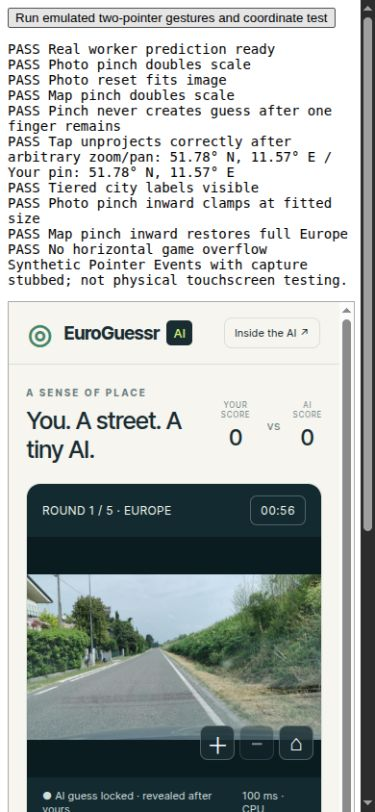
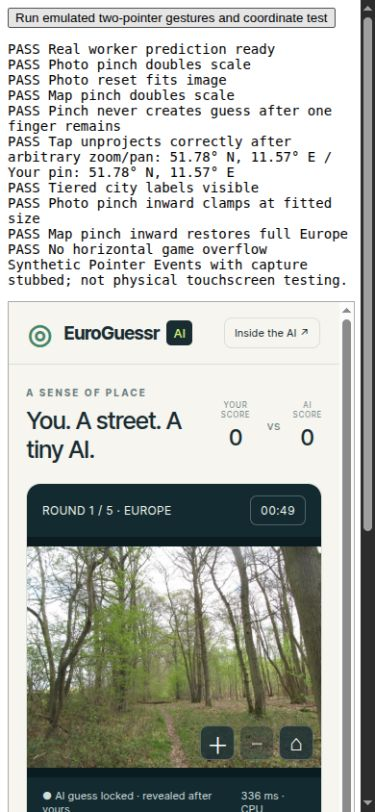
Select deployed student checkpoints on validation and verify continuation

Changed region(s): [[0.0587, 0.6158, 0.88, 1.0]]

diff --git a/projects/euroguessr/training/report_experiment.py b/projects/euroguessr/training/report_experiment.py
@@ -27,7 +27,7 @@ def main():
         for epoch in h:stages[epoch['stage']].append(epoch)
         stage_text='; '.join(f"{stage}: {len(v)} epochs, {max(e['elapsed_seconds'] for e in v):.1f} s" for stage,v in stages.items())
         audit=m['distillation']['validation_representation'];audit_text='not measured' if not audit else f"{audit['mean_cosine']:.6f} on {audit['n']} held-out validation examples"
-        lines += [f"- **{name}**: {stage_text}; best head-validation epoch {m['best_epoch']}; normalized projected representation cosine to the full-precision teacher: {audit_text}. Supervised A's projection is untrained and its cosine is only a control."]
-    lines+=['','The final spatial residual/SE block and output convolution were fine-tuned with fixed batch-normalization statistics. The distilled objective was 0.5 geographic CE + 0.2 temperature-scaled KL + 0.3 cosine loss, with teacher terms masked for uncached images. Both native and projected retrieval spaces, geographic head and offline location-gallery retrieval were evaluated on validation. Full candidate tables are in each `metrics.json`.','',f"The optional GeoCLIP download contains {big.get('download_bytes',big['onnx_bytes']+big['reference_bytes']):,} bytes plus small coordinate metadata. Precision: **{big['precision']}**. Constant dequantization uses FP32 matrix multiplication and consumes more browser memory than the stored 8-bit download. Five weight shards are under 64 MiB each. The browser contains no CLIP text tower or location encoder: it searches {10857:,} precomputed European location embeddings.",'','## Browser and game verification','',f"- Forty player photos total {sum(i['bytes'] for i in images['images']):,} bytes. Highest available source long edge is 910 px; exports preserve source size and never upscale. The archive cannot supply genuine 1600 px images.",'- Pointer Events provide photo zoom 1–4× and map zoom 1–8×, midpoint-anchored pinch/pan, clamping, cancellation and no pinch-created guess. The next photograph alone is preloaded. Natural Earth supplies 100 tiered city labels with collision suppression.', '- Chrome computer-agent evidence and actual five-round downloads are saved in `docs/` and summarized in `VALIDATION.md`. Responsive testing at 390×844 is desktop emulation, not a physical-phone benchmark. No human research matches were collected.','', '## Failures and limitations','', '- Signed INT8 source initially failed native ONNX Runtime on `ConvInteger`. The unsigned dynamic-activation variant ran but exact-input Chrome/native audits found embedding cosine near 0.99 and geographic differences up to 320 km. A FP32 patch-only repair worsened differences to 1,564 km. Both were rejected. The selected 8-bit stored-weight / FP32 arithmetic variant passed actual Chrome/native checks: maximum embedding error below 5.1e-7, coordinate difference below 0.005 km, and bit-exact JPEG preprocessing for the audit photo. These are two backend audit inputs, not an accuracy benchmark.', '- Plain nginx served `.mjs` with the wrong MIME type and initially prevented the compiled game from initializing WASM. The committed Docker preview config fixes `.mjs` and `.wasm` MIME types; GitHub Pages already serves the vendor module as JavaScript.', '- Tiny distillation is capacity-limited and the student/reference pack can still make large geographic errors. GeoCLIP needs a substantial explicit download and browser memory; phone performance is unmeasured.', '- The public 40-image pack was inspected previously. It is suitable for gameplay and UI checks, not fresh performance claims. Future model improvements require a new test cohort rather than retuning against this one.','', '## Checkpoints, reproduction and reversal','', '- `checkpoints/current/` and Git tag `euroguessr-v1-baseline-2026-10-05` preserve V1.', '- `checkpoints/geoclip-v2/` preserves both students’ best and last weights, optimizer and RNG state, grid, histories, exact image hashes, pinned dataset revision and teacher/cache archives. Bundle checksums verify continuation inputs.', '- `checkpoints/geoclip-direct/` preserves direct-model validation/test and quantization comparisons. Public external weight shards plus hashes preserve the deployed direct predictor.', '- Exact Docker commands for teacher generation/resume, student training/resume, verified restore, export, publication and revert are in `RESEARCH_V2.md`. `training/geoclip_overnight.sh` reproduces the main research stages; final test and promotion are separate explicit steps.', '- Automated evidence includes eight Node checks, five distillation contract tests, deterministic optimizer/RNG resume, expired-deadline export, wider-tail transition/parity, six exact CLIP preprocessing shapes, leakage/runtime fixtures, asset synchronization and full Docker Jekyll compilation. Final run results and browser scope are recorded in `VALIDATION.md`.','']
+        lines += [f"- **{name}**: {stage_text}; deployed checkpoint {m.get('selected_checkpoint','best.pt')} at epoch {m['best_epoch']}; normalized projected representation cosine to the full-precision teacher: {audit_text}. Supervised A's projection is untrained and its cosine is only a control."]
+    lines+=['','The final spatial residual/SE block and output convolution were fine-tuned with fixed batch-normalization statistics. The distilled objective was 0.5 geographic CE + 0.2 temperature-scaled KL + 0.3 cosine loss, with teacher terms masked for uncached images. Both native and projected retrieval spaces, geographic head and offline location-gallery retrieval were evaluated on validation. Full candidate tables are in each `metrics.json`.','',f"The optional GeoCLIP download contains {big.get('download_bytes',big['onnx_bytes']+big['reference_bytes']):,} bytes plus small coordinate metadata. Precision: **{big['precision']}**. Constant dequantization uses FP32 matrix multiplication and consumes more browser memory than the stored 8-bit download. Five weight shards are at most 64 MiB each. The browser contains no CLIP text tower or location encoder: it searches {10857:,} precomputed European location embeddings.",'','## Browser and game verification','',f"- Forty player photos total {sum(i['bytes'] for i in images['images']):,} bytes. Highest available source long edge is 910 px; exports preserve source size and never upscale. The archive cannot supply genuine 1600 px images.",'- Pointer Events provide photo zoom 1–4× and map zoom 1–8×, midpoint-anchored pinch/pan, clamping, cancellation and no pinch-created guess. The next photograph alone is preloaded. Natural Earth supplies 100 tiered city labels with collision suppression.', '- Chrome computer-agent evidence and actual five-round downloads are saved in `docs/` and summarized in `VALIDATION.md`. Responsive testing at 390×844 is desktop emulation, not a physical-phone benchmark. No human research matches were collected.','', '## Failures and limitations','', '- Signed INT8 source initially failed native ONNX Runtime on `ConvInteger`. The unsigned dynamic-activation variant ran but exact-input Chrome/native audits found embedding cosine near 0.99 and geographic differences up to 320 km. A FP32 patch-only repair worsened differences to 1,564 km. Both were rejected. The selected 8-bit stored-weight / FP32 arithmetic variant passed actual Chrome/native checks: maximum embedding error below 5.1e-7, coordinate difference below 0.005 km, and bit-exact JPEG preprocessing for the audit photo. These are two backend audit inputs, not an accuracy benchmark.', '- Plain nginx served `.mjs` with the wrong MIME type and initially prevented the compiled game from initializing WASM. The committed Docker preview config fixes `.mjs` and `.wasm` MIME types; GitHub Pages already serves the vendor module as JavaScript.', '- Tiny distillation is capacity-limited and the student/reference pack can still make large geographic errors. GeoCLIP needs a substantial explicit download and browser memory; phone performance is unmeasured.', '- The public 40-image pack was inspected previously. It is suitable for gameplay and UI checks, not fresh performance claims. Future model improvements require a new test cohort rather than retuning against this one.','', '## Checkpoints, reproduction and reversal','', '- `checkpoints/current/` and Git tag `euroguessr-v1-baseline-2026-10-05` preserve V1.', '- `checkpoints/geoclip-v2/` preserves both students’ best and last weights, optimizer and RNG state, grid, histories, exact image hashes, pinned dataset revision and teacher/cache archives. Bundle checksums verify continuation inputs.', '- `checkpoints/geoclip-direct/` preserves direct-model validation/test and quantization comparisons. Public external weight shards plus hashes preserve the deployed direct predictor.', '- Exact Docker commands for teacher generation/resume, student training/resume, verified restore, export, publication and revert are in `RESEARCH_V2.md`. `training/geoclip_overnight.sh` reproduces the main research stages; final test and promotion are separate explicit steps.', '- Automated evidence includes eight Node checks, five distillation contract tests, numerically reproducible optimizer/model resume (1e-7 tolerance) and exact RNG restoration, expired-deadline export, wider-tail transition/parity, six exact CLIP preprocessing shapes, leakage/runtime fixtures, asset synchronization and full Docker Jekyll compilation. Final run results and browser scope are recorded in `VALIDATION.md`.','']
     (run/'REPORT.md').write_text('\n'.join(lines));print(run/'REPORT.md')
 if __name__=='__main__':main()

diff --git a/projects/euroguessr/training/evaluate_student.py b/projects/euroguessr/training/evaluate_student.py
@@ -19,9 +19,10 @@ def retrieval_candidates(query,refs,gps):
             w=np.exp((values[:,:k]-values[:,:1])*temperature);w/=w.sum(1,keepdims=True)
             yield k,temperature,(gps[order[:,:k]]*w[:,:,None]).sum(1)
 
-def finalize(run_dir,prefix=None,audit_teacher=None):
+def finalize(run_dir,prefix=None,audit_teacher=None,checkpoint='best',export_dir=None):
     from student_train import Student,cached_prefix,all_features
-    out=Path(run_dir);state=torch.load(out/'best.pt',weights_only=False);torch.set_num_threads(2)
+    out=Path(run_dir);destination=Path(export_dir) if export_dir else out;destination.mkdir(parents=True,exist_ok=True)
+    state=torch.load(out/f'{checkpoint}.pt',weights_only=False);torch.set_num_threads(2)
     rows=json.loads((out/'manifest.json').read_text());gps=np.array([[float(r['latitude']),float(r['longitude'])] for r in rows])
     tr=np.array([i for i,r in enumerate(rows) if r['split']=='train']);va=np.array([i for i,r in enumerate(rows) if r['split']=='val'])
     model=Student(len(state['centers']),state['config'].get('tail_blocks',1));model.load_state_dict(state['model']);model.eval()
@@ -57,7 +58,7 @@ def finalize(run_dir,prefix=None,audit_teacher=None):
         _,audit=load_cache(audit_teacher,rows,centers,role='val')
         cos=[float(projected[i]@audit[r['id']][0]) for i,r in enumerate(rows) if r['id'] in audit]
         cosine={'n':len(cos),'mean_cosine':float(np.mean(cos))} if cos else None
-    models=out/'models';models.mkdir(exist_ok=True)
+    models=destination/'models';models.mkdir(exist_ok=True)
     torch.onnx.export(model,torch.zeros(1,3,224,224),models/'model.onnx',input_names=['image'],output_names=['embedding','logits','projection'],opset_version=17)
     import onnxruntime as ort
     opts=ort.SessionOptions();opts.intra_op_num_threads=2;opts.inter_op_num_threads=1
@@ -82,9 +83,10 @@ def finalize(run_dir,prefix=None,audit_teacher=None):
     atomic_json(reference_meta,models/'references.json')
     model_sha=hashlib.sha256((models/'model.onnx').read_bytes()).hexdigest()
     metadata={'model_sha256':model_sha,'version':f'europe-v2-{out.name}-{state["epoch"]}-{model_sha[:12]}','architecture':'Tiny MobileNetV3-Small student distilled from GeoCLIP' if targets else 'GPS-supervised MobileNetV3-Small baseline','parameters':sum(p.numel() for p in model.parameters()),'method':winner,'embedding_output':selected['embedding_output'],'retrieval_temperature':selected.get('retrieval_temperature',20),'centers':centers.tolist(),'manifest_sha256':state['manifest_sha256'],'splits':{'train':len(tr),'val':len(va),'test':sum(r.get('cohort')=='fresh' for r in rows),'minimum_train_holdout_distance_km':25,'validation_block_degrees':3},'candidates':candidates,'onnx_max_absolute_error':parity,'onnx_bytes':(models/'model.onnx').stat().st_size,'reference_bytes':(models/'references.f32').stat().st_size,'native_cpu_latency_ms':{'median':float(np.median(times)),'p95':float(np.percentile(times,95)),'threads':2,'scope':'encoder + two heads; excludes image decode/retrieval'},'distillation':{'enabled':bool(targets),'teacher_images':len(targets),'teacher_cache_sha256':state['teacher_cache_sha256'],'weights':state['config'],'validation_representation':cosine},'precision':'FP32','human_benchmark':'Not measured','input':{'shape':[1,3,224,224],'resize':'stretch, half-pixel bilinear, no antialiasing','mean':[.485,.456,.406],'std':[.229,.224,.225]},'best_epoch':state['epoch'],'test_status':'not evaluated'}
-    atomic_json(metadata,models/'metadata.json');atomic_json(metadata,out/'metrics.json')
-    np.savez(out/'evaluation-features.npz',native=native,projection=projected,logits=logits)
-    atomic_json({'winner':winner,'validation':selected['val'],'test_status':'not evaluated'},out/'selection.json')
+    metadata['selected_checkpoint']=checkpoint+'.pt'
+    atomic_json(metadata,models/'metadata.json');atomic_json(metadata,destination/'metrics.json')
+    np.savez(destination/'evaluation-features.npz',native=native,projection=projected,logits=logits)
+    atomic_json({'winner':winner,'checkpoint':checkpoint+'.pt','validation':selected['val'],'test_status':'not evaluated'},destination/'selection.json')
     print(json.dumps({'winner':winner,'validation':selected['val'],'onnx_bytes':metadata['onnx_bytes'],'cosine':cosine}),flush=True)
     return metadata
 
@@ -116,7 +118,7 @@ def final_test(out):
     return report
 
 def main():
-    p=argparse.ArgumentParser();p.add_argument('--run-dir',type=Path,required=True);p.add_argument('--test',action='store_true');p.add_argument('--audit-teacher',type=Path);args=p.parse_args();torch.set_num_threads(2)
+    p=argparse.ArgumentParser();p.add_argument('--run-dir',type=Path,required=True);p.add_argument('--test',action='store_true');p.add_argument('--audit-teacher',type=Path);p.add_argument('--checkpoint',choices=['best','last'],default='best');p.add_argument('--export-dir',type=Path);args=p.parse_args();torch.set_num_threads(2)
     if args.test:final_test(args.run_dir)
-    else:finalize(args.run_dir,audit_teacher=args.audit_teacher)
+    else:finalize(args.run_dir,audit_teacher=args.audit_teacher,checkpoint=args.checkpoint,export_dir=args.export_dir)
 if __name__=='__main__':main()

diff --git a/projects/euroguessr/tests/training_integration.py b/projects/euroguessr/tests/training_integration.py
@@ -1,4 +1,4 @@
-"""Real CPU training verifies exact resume and past-deadline ONNX finalization."""
+"""Real CPU training verifies numerical resume, exact RNG and deadline export."""
 import sys,json,subprocess,shutil
 from pathlib import Path
 import torch
@@ -20,8 +20,19 @@ def main():
     run('resumed','--epochs','1');run('resumed','--epochs','1','--resume')
     full=torch.load(out/'full/last.pt',weights_only=False);resumed=torch.load(out/'resumed/last.pt',weights_only=False)
     assert full['epoch']==resumed['epoch']==1
-    assert all(torch.equal(v,resumed['model'][k]) for k,v in full['model'].items()),'Resume model differs'
+    model_error=max(float((v-resumed['model'][k]).abs().max()) for k,v in full['model'].items())
+    assert model_error<1e-7,'Resume model differs beyond CPU rounding tolerance'
     assert torch.equal(full['torch_rng'],resumed['torch_rng']),'Resume RNG differs'
+    assert full['python_rng']==resumed['python_rng'] and np.array_equal(full['numpy_rng'][1],resumed['numpy_rng'][1]),'Resume Python/NumPy RNG differs'
+    assert full['optimizer']['param_groups']==resumed['optimizer']['param_groups'],'Resume optimizer settings differ'
+    optimizer_error=0.
+    for key,state in full['optimizer']['state'].items():
+        for name,value in state.items():
+            other=resumed['optimizer']['state'][key][name]
+            if torch.is_tensor(value):optimizer_error=max(optimizer_error,float((value-other).abs().max()))
+            else:assert value==other
+    assert optimizer_error<1e-7,'Resume optimizer differs beyond CPU rounding tolerance'
+    assert all(abs(a['loss']-b['loss'])<1e-7 and a['val']==b['val'] for a,b in zip(full['history'],resumed['history'])),'Resume training trajectory differs'
     run('deadline','--epochs','1','--stop-at','1970-01-01T00:00:00+00:00','--export')
     completion=json.loads((out/'deadline/completion.json').read_text());assert completion['reason']=='deadline'
     assert (out/'deadline/models/model.onnx').exists(),'Deadline skipped finalization'
@@ -44,5 +55,13 @@ def main():
     refs=json.loads((out/'spatial/models/references.json').read_text());matrix=np.fromfile(out/'spatial/models/references.f32',dtype='<f4').reshape(refs['count'],refs['dimensions'])
     with torch.inference_mode():native=model.encoder(tensor(DATA/'images'/f"{refs['ids'][0]}.jpg").unsqueeze(0));native=torch.nn.functional.normalize(native,dim=1).numpy()[0]
     assert np.allclose(matrix[0],native,atol=1e-5),'Reference export used the wrong frozen-prefix scope'
-    print(json.dumps({'exact_resume':'passed','deadline_checkpoint_and_export':'passed','deadline_resume':'passed','spatial_tail_transition_and_reference_parity':'passed'}))
+    from evaluate_student import finalize
+    exported=out/'spatial/last-evaluation'
+    metadata=finalize(out/'spatial',checkpoint='last',export_dir=exported)
+    assert metadata['selected_checkpoint']=='last.pt' and metadata['best_epoch']==spatial['epoch']
+    model=Student(len(spatial['centers']),2);model.load_state_dict(spatial['model']);model.eval()
+    refs=json.loads((exported/'models/references.json').read_text());matrix=np.fromfile(exported/'models/references.f32',dtype='<f4').reshape(refs['count'],refs['dimensions'])
+    with torch.inference_mode():native=torch.nn.functional.normalize(model.encoder(tensor(DATA/'images'/f"{refs['ids'][0]}.jpg").unsqueeze(0)),dim=1).numpy()[0]
+    assert np.allclose(matrix[0],native,atol=1e-5),'Last-checkpoint comparison used the wrong prefix/model'
+    print(json.dumps({'numerical_model_and_optimizer_resume':'passed','resume_max_weight_error':model_error,'resume_max_optimizer_error':optimizer_error,'exact_rng_resume':'passed','deadline_checkpoint_and_export':'passed','deadline_resume':'passed','spatial_tail_transition_and_reference_parity':'passed','last_checkpoint_export_parity':'passed'}))
 if __name__=='__main__':main()

diff --git a/projects/euroguessr/training/select_student_checkpoint.py b/projects/euroguessr/training/select_student_checkpoint.py
@@ -1,0 +1,33 @@
+"""Select head-best versus last checkpoint by deployed validation retrieval.
+
+Training checkpoints remain intact. Both controls receive the same comparison;
+the fresh test must still be unopened. This avoids choosing a CNN solely by a
+classification head when the deployed predictor actually uses retrieval.
+"""
+import argparse,json,shutil
+from pathlib import Path
+from evaluate_student import finalize
+from fingerprint_runtime import seal
+from teacher_common import atomic_json
+
+def main():
+    p=argparse.ArgumentParser();p.add_argument('--run-dir',type=Path,required=True);p.add_argument('--audit-teacher',type=Path);args=p.parse_args();out=args.run_dir
+    if (out/'test-report.json').exists() or (out.parent/'deployment-selection.json').exists():raise ValueError('Checkpoint selection must precede the locked deployment and fresh test')
+    decision=out/'checkpoint-selection.json'
+    if decision.exists():raise ValueError('Checkpoint comparison already saved; preserve it')
+    candidates={}
+    for checkpoint in ['best','last']:
+        directory=out/f'{checkpoint}-evaluation'
+        if directory.exists():raise ValueError('Evaluation directory exists; preserve previous measurements')
+        meta=finalize(out,audit_teacher=args.audit_teacher,checkpoint=checkpoint,export_dir=directory)
+        candidates[checkpoint]={'epoch':meta['best_epoch'],'method':meta['method'],'validation':meta['candidates'][meta['method']]['val'],'model_sha256':meta['model_sha256']}
+    winner=min(candidates,key=lambda name:candidates[name]['validation']['median_km'])
+    source=out/f'{winner}-evaluation'
+    (out/'models').mkdir(exist_ok=True)
+    for name in ['metrics.json','selection.json','evaluation-features.npz']:shutil.copy2(source/name,out/name)
+    for path in (source/'models').iterdir():shutil.copy2(path,out/'models'/path.name)
+    meta=seal(out/'models');atomic_json(meta,out/'metrics.json')
+    atomic_json({'selected_checkpoint':winner+'.pt','criterion':'Minimum shared-validation median of the deployed inference method; head-best and last checkpoints compared symmetrically for A and B','candidates':candidates},decision)
+    print('Validation-selected checkpoint',winner,flush=True)
+
+if __name__=='__main__':main()

diff --git a/projects/euroguessr/training/bundle_experiment.py b/projects/euroguessr/training/bundle_experiment.py
@@ -11,8 +11,13 @@ def main():
     dest.mkdir(parents=True)
     for run in ['supervised','distilled']:
         (dest/run).mkdir()
-        for name in ['best.pt','last.pt','cells.json','history.json','completion.json','metrics.json','selection.json','test-report.json']:
+        for name in ['best.pt','last.pt','cells.json','history.json','completion.json','metrics.json','selection.json','checkpoint-selection.json','test-report.json']:
             if (source/run/name).exists():shutil.copy2(source/run/name,dest/run/name)
+        for checkpoint in ['best','last']:
+            directory=source/run/f'{checkpoint}-evaluation'
+            if directory.exists():
+                (dest/run/directory.name).mkdir()
+                for name in ['metrics.json','selection.json']:shutil.copy2(directory/name,dest/run/directory.name/name)
     for name in ['manifest.json','data-summary.json','teacher-benchmark.json','teacher-budget.json','grid-search.json','baseline-comparison.json','baseline-test.json','deployment-selection.json','baseline-holdout-isolation.json','promotion.json','leakage-check.json','game-image-report.json','REPORT.md','docker-image-id.txt']:
         if (source/name).exists():shutil.copy2(source/name,dest/name)
     rows=json.loads((source/'manifest.json').read_text())

diff --git a/projects/euroguessr/RESEARCH_V2.md b/projects/euroguessr/RESEARCH_V2.md
@@ -160,7 +160,12 @@ training/evaluate_student.py --run-dir artifacts/geoclip-overnight/distilled \
   --audit-teacher artifacts/geoclip-overnight/validation-teacher
 training/fingerprint_runtime.py --models artifacts/geoclip-overnight/distilled/models \
   --metrics-out artifacts/geoclip-overnight/distilled/metrics.json
-# Only after validation has fixed the method:
+# Compare the training head-best and last snapshots using deployed validation retrieval:
+training/select_student_checkpoint.py --run-dir artifacts/geoclip-overnight/supervised \
+  --audit-teacher artifacts/geoclip-overnight/validation-teacher
+training/select_student_checkpoint.py --run-dir artifacts/geoclip-overnight/distilled \
+  --audit-teacher artifacts/geoclip-overnight/validation-teacher
+# Only after validation has fixed the checkpoint and method:
 training/select_deployment.py --run-root artifacts/geoclip-overnight
 training/evaluate_student.py --run-dir artifacts/geoclip-overnight/distilled --test
 training/promote_student.py --run-dir artifacts/geoclip-overnight/distilled \
@@ -168,6 +173,8 @@ training/promote_student.py --run-dir artifacts/geoclip-overnight/distilled \
   --backup artifacts/geoclip-overnight/pre-promotion
 training/bundle_experiment.py --run-root artifacts/geoclip-overnight
 ```
+
+The checkpoint comparison preserves `best.pt` and `last.pt`, writes both `best-evaluation/` and `last-evaluation/` reports, and copies the validation winner’s runtime assets to the run root. `checkpoint-selection.json` records the choice. Both students receive the same comparison. Resume training from the original saved state; `selected_checkpoint` identifies which weights produced the deployed export. Never rerun selection after a fresh test has been opened.
 
 Choose supervised instead if it wins validation. Final test reports describe the
 selected method only, not a test-based sweep.
@@ -215,7 +222,7 @@ making another test-based accuracy claim.
 
 The source is the pinned [Xenova image-only 8-bit conversion](https://huggingface.co/Xenova/clip-vit-large-patch14/tree/c307790166907339eed5a9a53a249af534102536/onnx),
 not the full CLIP model. The exporter adds the exact GeoCLIP MLP and L2
-normalization, freezes the input shape, and shards external weights below 64 MiB.
+normalization, freezes the input shape, and shards external weights at no more than 64 MiB.
 The selected export uses `--weight-only`: per-channel UINT8 linear weights are dequantized for FP32 matrix multiplication, and patch convolution is FP32. This preserves the small download while removing dynamic activation quantization, whose native/WASM predictions failed parity. Runtime memory is substantially larger than download size. The location encoder runs offline over a regular 0.5° Europe GPS grid. The export
 records source checksums and projection provenance. Runtime files are served
 locally with the site; Hugging Face is only a development download source.

diff --git a/projects/euroguessr/VALIDATION.md b/projects/euroguessr/VALIDATION.md
@@ -73,3 +73,7 @@ The first UINT8 dynamic-activation export passed native tests but failed the act
 The replacement retains per-channel UINT8 linear weights for storage, dequantizes them for ordinary FP32 matrix multiplication, and uses FP32 patch convolution and GeoCLIP MLP. Chrome successfully loaded it and ran two real WASM inputs. Native Docker comparison of those exact tensors found maximum embedding errors 2.76e-7 and 5.07e-7, with coordinate differences 0.00065 and 0.00498 km. The gameplay JPEG preprocessing was bit-exact against Pillow/AutoProcessor. Six independent shape fixtures likewise have zero Float32 error. This supports backend consistency for the checked inputs; it does not prove every JPEG decoder or physical phone behaves identically.
 
 Evidence: `docs/geoclip-weight-only-parity.json`, `docs/chrome-v2-weight-only-audit.png`; rejected results are retained in the other `geoclip-*-parity.json` reports. Developer-only `tests/runtime-parity.html` downloads actual Chrome inputs and embeddings; `tests/runtime_parity.py` compares them in Docker and fails below cosine 0.9999. The harness and private research assets are excluded from publication. Direct-model checkpoint bundling preserves compressed actual audit downloads and exporter sources. Both native and browser ORT are version 1.23.2. Download size is 334,930,383 bytes before metadata sealing, approximately 320 MiB; resident execution memory is substantially larger.
+
+The checkpoint comparison exports both the original head-best and last student snapshots using each snapshot’s own frozen-prefix scope, then selects by the actual deployment-method validation median. Original training checkpoints remain untouched. Both supervised and distilled controls receive this comparison before deployment/test locking. The integration test verifies that a last-checkpoint export’s references match the full CNN.
+
+A repeat of the resume check under concurrent CPU load found a maximum parameter difference of 7.45e-9, identical epoch losses and geographic metrics, and identical PyTorch RNG state. The check now uses a strict 1e-7 absolute tolerance for parameters and optimizer moments, checks optimizer settings and the full training trajectory, and requires exact Python/NumPy/PyTorch RNG restoration. This distinguishes numerical reproducibility from guaranteed bitwise identity across separate CPU processes. Earlier bitwise-passing runs remain historical evidence.
